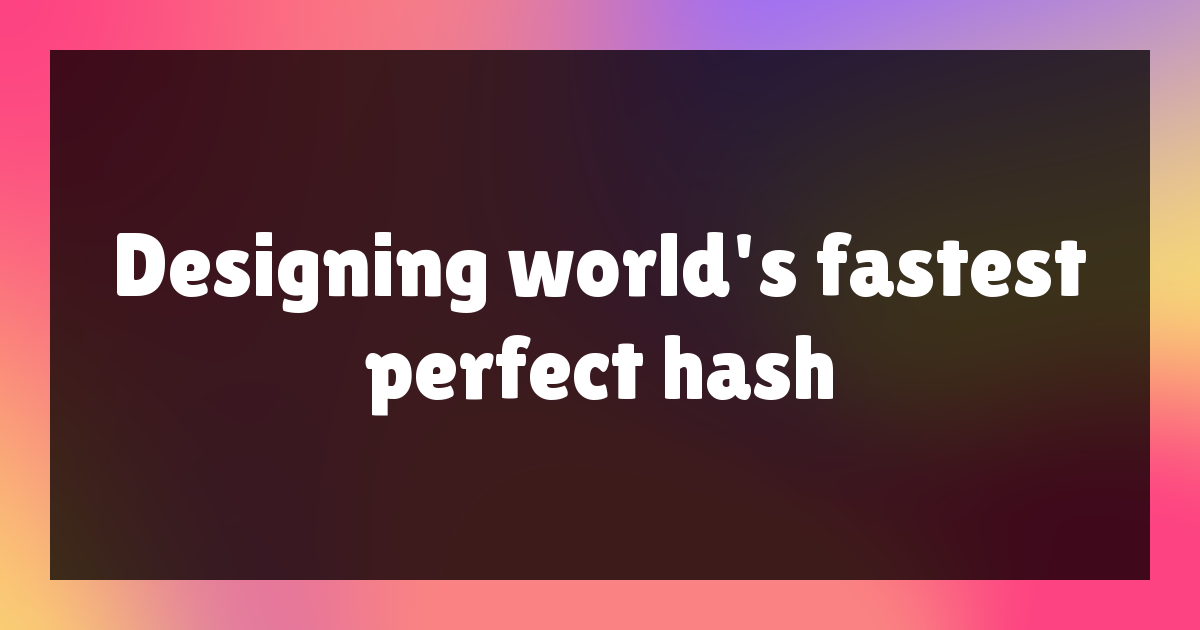
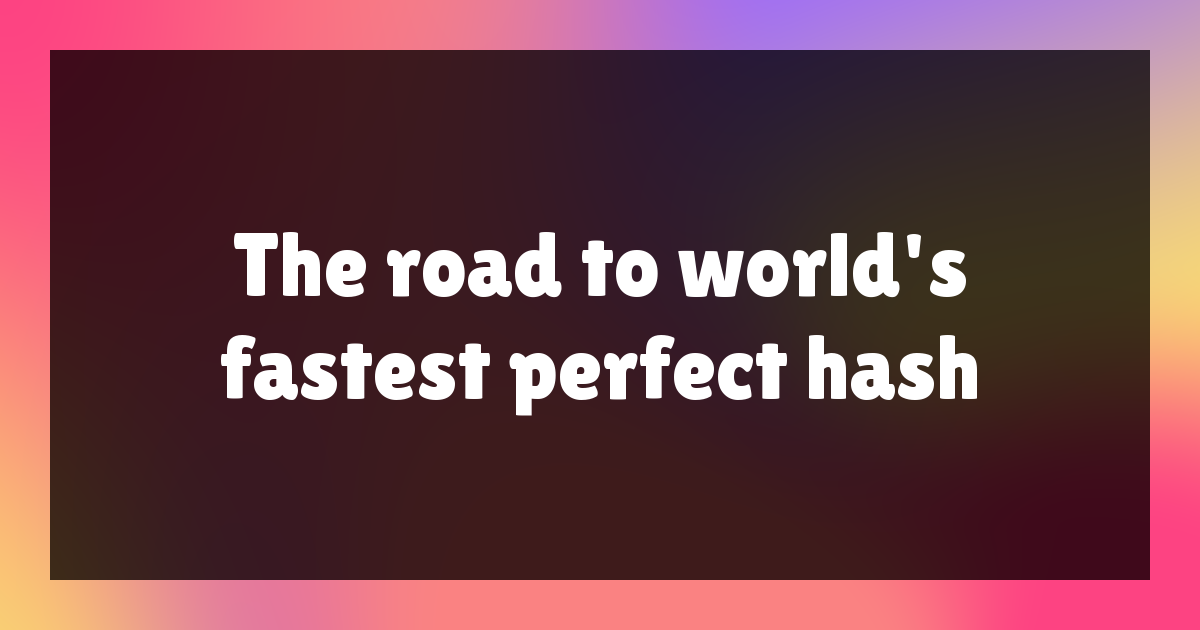
Update

Changed region(s): [[0.0925, 0.3619, 0.925, 0.5127], [0.185, 0.5127, 0.8325, 0.6635]]

diff --git a/blog/designing-worlds-fastest-perfect-hash/index.html b/blog/designing-worlds-fastest-perfect-hash/index.html
@@ -1,4 +1,4 @@
-<!doctypehtml><html prefix="og: http://ogp.me/ns#"lang=en_US><meta charset=utf-8><meta content=width=device-width,initial-scale=1 name=viewport><title>Designing world's fastest perfect hash | purplesyringa's blog</title><link href=../../all.css rel=stylesheet><link href=../../blog.css rel=stylesheet><link href=../../vendor/Temml-Local.css rel=stylesheet><link crossorigin href=https://fonts.googleapis.com/css2?family=Noto+Sans:ital,wght@0,100..900;1,100..900&family=Roboto+Mono:ital,wght@0,100..700;1,100..700&family=Roboto:ital,wght@0,400;0,700;1,400;1,700&family=Slabo+27px&display=swap rel=stylesheet><link href=../../fonts/webfont.css rel=stylesheet><link media="screen and (prefers-color-scheme: dark"href=../../vendor/atom-one-dark.min.css rel=stylesheet><link media="screen and (prefers-color-scheme: light"href=../../vendor/a11y-light.min.css rel=stylesheet><link title="Blog posts"href=../../blog/feed.rss rel=alternate type=application/rss+xml><meta content="Designing world's fastest perfect hash"property=og:title><meta content=article property=og:type><meta content=https://purplesyringa.moe/blog/designing-worlds-fastest-perfect-hash/og.png property=og:image><meta content=https://purplesyringa.moe/blog/designing-worlds-fastest-perfect-hash/ property=og:url><meta content="I need a hash-table with integer keys. HashMap , right? Wrong. For plot reasons, I need it to perform at ridiculous speeds. So that’s how the journey to the fastest perfect hash function started."property=og:description><meta content=en_US property=og:locale><meta content="purplesyringa's blog"property=og:site_name><meta content=summary_large_image name=twitter:card><meta content=https://purplesyringa.moe/blog/designing-worlds-fastest-perfect-hash/og.png name=twitter:image><script data-website-id=0da1961d-43f2-45cc-a8e2-75679eefbb69 defer src=https://zond.tei.su/script.js></script><body><header><div class=viewport-container><div class=media><a href=https://github.com/purplesyringa><img alt=GitHub src=../../images/github-mark-white.svg></a></div><h1><a href=/>purplesyringa</a></h1><nav><a href=../..>about</a><a class=current href=../../blog/>blog</a><a href=../../sink/>kitchen sink</a></nav></div></header><section><div class=viewport-container><h2>Designing world's fastest perfect hash</h2><time>November 15, 2024</time><p>I need a hash-table with integer keys. <code>HashMap&LTu32, T></code>, right? Wrong. <em>For plot reasons</em>, I need it to perform at ridiculous speeds. So that’s how the journey to the fastest perfect hash function started.<p class=next-group><span aria-level=3 class=side-header role=heading><span>Setting the stage</span></span>Okay, so a little bit of context is necessary.<p>I’m working with a file containing structured data, and I need to attach metadata to some of the entries. Entries don’t have any natural keys, so I have to use the file offset as the key. I’m allowed to spend a long time preprocessing the file, but after that, mapping the offset to the metadata needs to be near-instantaneous.<p class=next-group><span aria-level=3 class=side-header role=heading><span>PHFs</span></span>Problems like this are typically solved is by using <em>perfect hash functions</em>. These are hash functions trained on a particular key set, with a lucky property that the hashes of these keys don’t collide.<p>For example, for the key set <eq><math><mrow><mo form=prefix stretchy=false>{</mo><mn>12534</mn><mo separator=true>,</mo><mn>12421</mn><mo separator=true>,</mo><mn>123567</mn><mo form=postfix stretchy=false>}</mo></mrow></math></eq>, <eq><math><mrow><mi>H</mi><mo form=prefix stretchy=false>(</mo><mi>x</mi><mo form=postfix stretchy=false>)</mo><mo>=</mo></mrow><mrow><mi>x</mi><mi>&</mi><mn>3</mn></mrow></math></eq> is a valid PHF, because the hashes of the set are <eq><math><mrow><mo form=prefix stretchy=false>{</mo><mn>3</mn><mo separator=true>,</mo><mn>2</mn><mo separator=true>,</mo><mn>1</mn><mo form=postfix stretchy=false>}</mo></mrow></math></eq> with no collisions. Note that collisions may arise if <em>other</em> unlisted keys are hashed: this is not considered a problem.<p>After the PHF is built, we can just put the metadata into an array like this:<pre><code class=language-rust><span class=hljs-keyword>let</span> <span class=hljs-variable>hashtable</span> = [
+<!doctypehtml><html prefix="og: http://ogp.me/ns#"lang=en_US><meta charset=utf-8><meta content=width=device-width,initial-scale=1 name=viewport><title>The road to world's fastest perfect hash | purplesyringa's blog</title><link href=../../all.css rel=stylesheet><link href=../../blog.css rel=stylesheet><link href=../../vendor/Temml-Local.css rel=stylesheet><link crossorigin href=https://fonts.googleapis.com/css2?family=Noto+Sans:ital,wght@0,100..900;1,100..900&family=Roboto+Mono:ital,wght@0,100..700;1,100..700&family=Roboto:ital,wght@0,400;0,700;1,400;1,700&family=Slabo+27px&display=swap rel=stylesheet><link href=../../fonts/webfont.css rel=stylesheet><link media="screen and (prefers-color-scheme: dark"href=../../vendor/atom-one-dark.min.css rel=stylesheet><link media="screen and (prefers-color-scheme: light"href=../../vendor/a11y-light.min.css rel=stylesheet><link title="Blog posts"href=../../blog/feed.rss rel=alternate type=application/rss+xml><meta content="The road to world's fastest perfect hash"property=og:title><meta content=article property=og:type><meta content=https://purplesyringa.moe/blog/designing-worlds-fastest-perfect-hash/og.png property=og:image><meta content=https://purplesyringa.moe/blog/designing-worlds-fastest-perfect-hash/ property=og:url><meta content="I need a hash-table with integer keys. HashMap , right? Wrong. For plot reasons, I need it to perform at ridiculous speeds. So that’s how the journey towards the fastest perfect hash function started."property=og:description><meta content=en_US property=og:locale><meta content="purplesyringa's blog"property=og:site_name><meta content=summary_large_image name=twitter:card><meta content=https://purplesyringa.moe/blog/designing-worlds-fastest-perfect-hash/og.png name=twitter:image><script data-website-id=0da1961d-43f2-45cc-a8e2-75679eefbb69 defer src=https://zond.tei.su/script.js></script><body><header><div class=viewport-container><div class=media><a href=https://github.com/purplesyringa><img alt=GitHub src=../../images/github-mark-white.svg></a></div><h1><a href=/>purplesyringa</a></h1><nav><a href=../..>about</a><a class=current href=../../blog/>blog</a><a href=../../sink/>kitchen sink</a></nav></div></header><section><div class=viewport-container><h2>The road to world's fastest perfect hash</h2><time>November 15, 2024</time><p>I need a hash-table with integer keys. <code>HashMap&LTu32, T></code>, right? Wrong. <em>For plot reasons</em>, I need it to perform at ridiculous speeds. So that’s how the journey towards the fastest perfect hash function started.<p class=next-group><span aria-level=3 class=side-header role=heading><span>Setting the stage</span></span>Okay, so a little bit of context is necessary.<p>I’m working with a file containing structured data, and I need to attach metadata to some of the entries. Entries don’t have any natural keys, so I have to use the file offset as the key. I’m allowed to spend a long time preprocessing the file, but after that, mapping the offset to the metadata needs to be near-instantaneous.<p class=next-group><span aria-level=3 class=side-header role=heading><span>PHFs</span></span>Problems like this are typically solved is by using <em>perfect hash functions</em>. These are hash functions trained on a particular key set, with a lucky property that the hashes of these keys don’t collide.<p>For example, for the key set <eq><math><mrow><mo form=prefix stretchy=false>{</mo><mn>12534</mn><mo separator=true>,</mo><mn>12421</mn><mo separator=true>,</mo><mn>123567</mn><mo form=postfix stretchy=false>}</mo></mrow></math></eq>, <eq><math><mrow><mi>H</mi><mo form=prefix stretchy=false>(</mo><mi>x</mi><mo form=postfix stretchy=false>)</mo><mo>=</mo></mrow><mrow><mi>x</mi><mi>&</mi><mn>3</mn></mrow></math></eq> is a valid PHF, because the hashes of the set are <eq><math><mrow><mo form=prefix stretchy=false>{</mo><mn>3</mn><mo separator=true>,</mo><mn>2</mn><mo separator=true>,</mo><mn>1</mn><mo form=postfix stretchy=false>}</mo></mrow></math></eq> with no collisions. Note that collisions may arise if <em>other</em> unlisted keys are hashed: this is not considered a problem.<p>After the PHF is built, we can just put the metadata into an array like this:<pre><code class=language-rust><span class=hljs-keyword>let</span> <span class=hljs-variable>hashtable</span> = [
     <span class=hljs-literal>None</span>,
     <span class="hljs-title function_ invoke__">Some</span>((<span class=hljs-number>123567</span>, value <span class=hljs-keyword>for</span> <span class=hljs-number>123567</span>)),
     <span class="hljs-title function_ invoke__">Some</span>((<span class=hljs-number>12421</span>, value <span class=hljs-keyword>for</span> <span class=hljs-number>12421</span>)),
@@ -40,7 +40,7 @@
     <span class=hljs-keyword>shr</span>     <span class=hljs-built_in>edx</span>, <span class=hljs-built_in>cl</span> <span class=hljs-comment>; 1 tick</span>
     <span class=hljs-keyword>shr</span>     <span class=hljs-built_in>rax</span>, <span class=hljs-number>32</span> <span class=hljs-comment>; 1 tick (computed concurrently)</span>
     <span class=hljs-keyword>ret</span>
-</code></pre><p>Now all we have to do is compute the final hash with <eq><math><mrow><mrow><mtext></mtext><mi>mix</mi></mrow><mo form=prefix stretchy=false>(</mo><mrow><mi>A</mi><mi>p</mi><mi>p</mi><mi>r</mi><mi>o</mi><mi>x</mi></mrow><mo separator=true>,</mo><mrow><mi>D</mi><mi>i</mi><mi>s</mi><mi>p</mi></mrow><mo form=prefix stretchy=false>[</mo><mrow><mi>B</mi><mi>u</mi><mi>c</mi><mi>k</mi><mi>e</mi><mi>t</mi></mrow><mo form=postfix stretchy=false>]</mo><mo form=postfix stretchy=false>)</mo></mrow></math></eq>.<h2>Generation</h2><p class=next-group><span aria-level=3 class=side-header role=heading><span>The what?</span></span>Okay, now how do we <em>generate</em> the table in the first place? We need to decide on:<ul><li><code>entropy_shift</code> (or to switch to <code>swap_bytes</code>)<li><code>hash_space</code><li><code>bucket_shift</code><li>The displacement LUT</ul><p>None of these are as simple as they look like.<p class=next-group><span aria-level=3 class=side-header role=heading><span>Entropy shift</span></span>For this, we need a way to measure the uniformity of a distribution. Typical solutions assume the existence of a PDF, but only have access to a sample of the distribution, so we’ll use <a href=https://en.wikipedia.org/wiki/Kolmogorov%E2%80%93Smirnov_test>the KS test</a> instead. In layman terms, we just sort the hashes in increasing order, draw a scatter plot, and compare it to a straight line.<p>Not that this needs to be particularly performant, but avoiding floating point operations sounds like a nice bonus, so let’s do that. We need to compute approximately <eq><math><mrow><munderover><mi>max</mi><mrow><mi>i</mi><mo>=</mo><mn>0</mn></mrow><mrow><mi>N</mi><mo>−</mo><mn>1</mn></mrow></munderover><mo></mo></mrow><mrow><mrow><mo fence=true form=prefix>|</mo><mfrac><msub><mi>h</mi><mi>i</mi></msub><msup><mn>2</mn><mn>32</mn></msup></mfrac><mo>−</mo><mfrac><mi>i</mi><mi>N</mi></mfrac><mo fence=true form=postfix>|</mo></mrow></mrow></math></eq>, which we can do as follows:<pre><code class=language-rust><span class=hljs-keyword>fn</span> <span class="hljs-title function_">compute_ks_for_sorted</span>(hashes: &[<span class=hljs-type>u32</span>]) <span class=hljs-punctuation>-></span> <span class=hljs-type>f32</span> {
+</code></pre><p>Now all we have to do is compute the final hash with <eq><math><mrow><mrow><mtext></mtext><mi>mix</mi></mrow><mo form=prefix stretchy=false>(</mo><mrow><mi>A</mi><mi>p</mi><mi>p</mi><mi>r</mi><mi>o</mi><mi>x</mi></mrow><mo separator=true>,</mo><mrow><mi>D</mi><mi>i</mi><mi>s</mi><mi>p</mi></mrow><mo form=prefix stretchy=false>[</mo><mrow><mi>B</mi><mi>u</mi><mi>c</mi><mi>k</mi><mi>e</mi><mi>t</mi></mrow><mo form=postfix stretchy=false>]</mo><mo form=postfix stretchy=false>)</mo></mrow></math></eq>.<h2>Generation</h2><p class=next-group><span aria-level=3 class=side-header role=heading><span>The what?</span></span>Okay, now how do we <em>generate</em> the table in the first place? We need to decide on:<ul><li><code>entropy_shift</code> (or to switch to <code>swap_bytes</code>)<li><code>hash_space</code><li><code>bucket_shift</code><li>The displacement LUT</ul><p>None of these are as simple as they look like.<p class=next-group><span aria-level=3 class=side-header role=heading><span>Entropy shift</span></span>For this, we need a way to measure the uniformity of a distribution. Typical solutions assume the existence of a probability distribution function, but we only have access to a sample of the distribution, so we’ll use <a href=https://en.wikipedia.org/wiki/Kolmogorov%E2%80%93Smirnov_test>the KS test</a> instead. In layman terms, we just sort the hashes in increasing order, draw a scatter plot, and compare it to a straight line.<p>Not that this needs to be particularly performant, but avoiding floating point operations sounds like a nice bonus, so let’s do that. We need to compute approximately <eq><math><mrow><munderover><mi>max</mi><mrow><mi>i</mi><mo>=</mo><mn>0</mn></mrow><mrow><mi>N</mi><mo>−</mo><mn>1</mn></mrow></munderover><mo></mo></mrow><mrow><mrow><mo fence=true form=prefix>|</mo><mfrac><msub><mi>h</mi><mi>i</mi></msub><msup><mn>2</mn><mn>32</mn></msup></mfrac><mo>−</mo><mfrac><mi>i</mi><mi>N</mi></mfrac><mo fence=true form=postfix>|</mo></mrow></mrow></math></eq>, which we can do as follows:<pre><code class=language-rust><span class=hljs-keyword>fn</span> <span class="hljs-title function_">compute_ks_for_sorted</span>(hashes: &[<span class=hljs-type>u32</span>]) <span class=hljs-punctuation>-></span> <span class=hljs-type>f32</span> {
     <span class=hljs-keyword>let</span> <span class=hljs-variable>scaled_abs</span> = hashes
         .<span class="hljs-title function_ invoke__">into_iter</span>()
         .<span class="hljs-title function_ invoke__">enumerate</span>()

diff --git a/blog/designing-worlds-fastest-perfect-hash/index.md b/blog/designing-worlds-fastest-perfect-hash/index.md
@@ -1,5 +1,5 @@
 ---
-title: Designing world's fastest perfect hash
+title: The road to world's fastest perfect hash
 time: November 15, 2024
 intro: |
   I need a hash-table with integer keys. `HashMap<u32, T>`, right? Wrong. *For plot reasons*, I need it to perform at ridiculous speeds. So that's how the journey towards the fastest perfect hash function started.
@@ -216,7 +216,7 @@ None of these are as simple as they look like.
 
 ### Entropy shift
 
-For this, we need a way to measure the uniformity of a distribution. Typical solutions assume the existence of a PDF, but only have access to a sample of the distribution, so we'll use [the KS test](https://en.wikipedia.org/wiki/Kolmogorov%E2%80%93Smirnov_test) instead. In layman terms, we just sort the hashes in increasing order, draw a scatter plot, and compare it to a straight line.
+For this, we need a way to measure the uniformity of a distribution. Typical solutions assume the existence of a probability distribution function, but we only have access to a sample of the distribution, so we'll use [the KS test](https://en.wikipedia.org/wiki/Kolmogorov%E2%80%93Smirnov_test) instead. In layman terms, we just sort the hashes in increasing order, draw a scatter plot, and compare it to a straight line.
 
 Not that this needs to be particularly performant, but avoiding floating point operations sounds like a nice bonus, so let's do that. We need to compute approximately $\max\limits_{i=0}^{N-1} \left\lvert \frac{h_i}{2^{32}} - \frac{i}{N} \right\rvert$, which we can do as follows:
 
